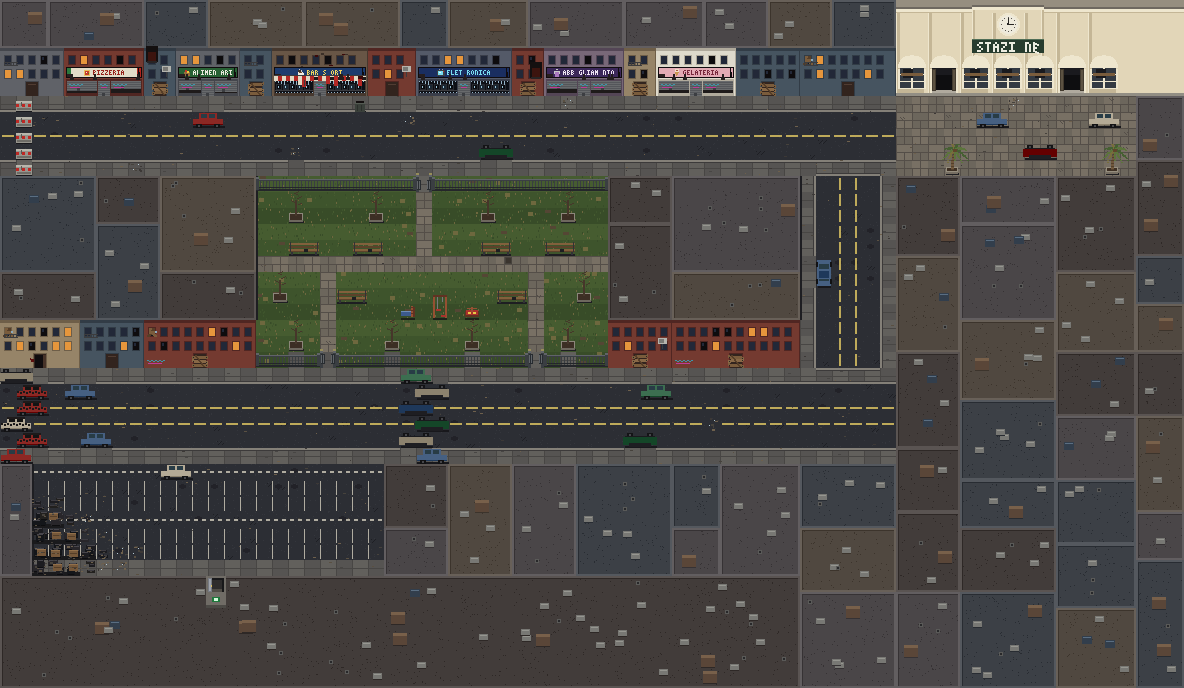
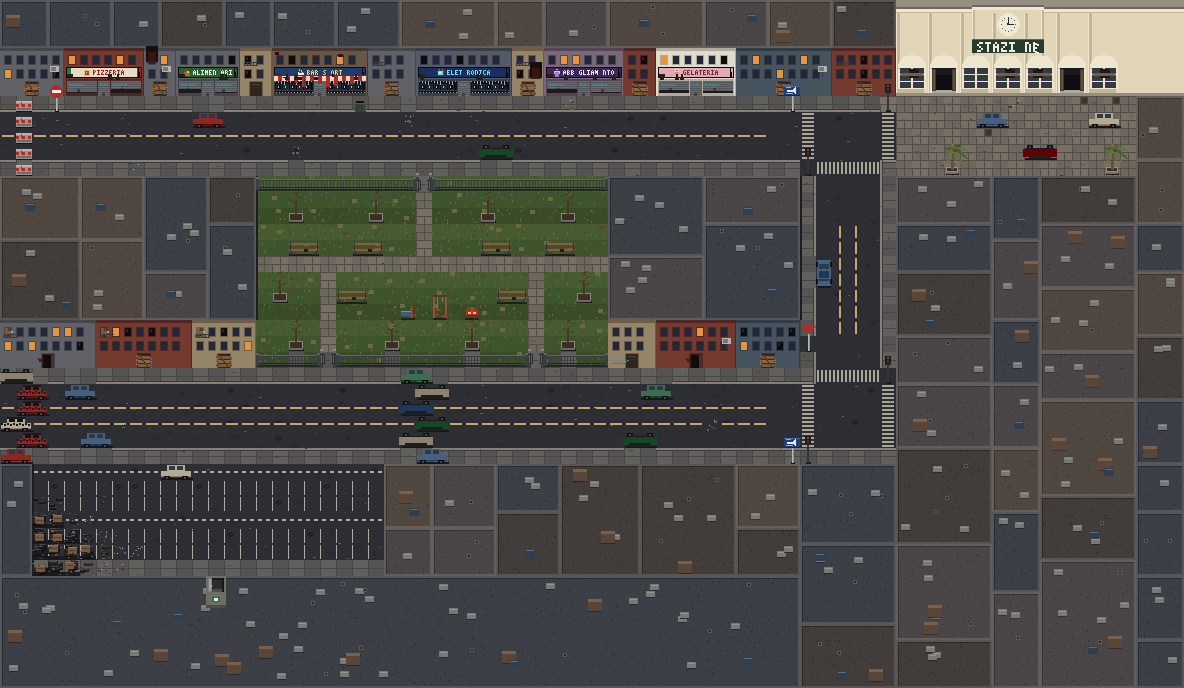
feat: incroci veri fra le due strade e la traversa
Gli incroci sono fatti come quello di first_street, che era gia giusto:
le linee di mezzeria si fermano prima dell'imbocco invece di attraversarlo,
due strisce pedonali `Z` tagliano la strada passante ai due lati
dell'imbocco, una `V` taglia l'imbocco stesso, e i semafori stanno su due
angoli opposti. Anche la traversa smette la propria mezzeria prima di
sboccare, nei due tratti di avvicinamento.

Aggiunta la segnaletica verticale, glifo `/`: un cartello su palo che si
sporge sulla cella sopra come fanno i semafori. Il tipo lo decide la
posizione -- dare precedenza sul marciapiede affiancato a una carreggiata
(la traversa che deve immettersi), divieto d'accesso dove i blocchi di
cemento chiudono la strada dei negozi, e altrove la targa blu che indica
la direzione.

diff --git a/lib/core/levels/tutorial/mall_north_street.dart b/lib/core/levels/tutorial/mall_north_street.dart
@@ -55,14 +55,14 @@ const List<String> mallNorthStreetRows = <String>[
[2 lines of base64/hex data omitted]
   'HHHHHHHHHHHHHHHHHHHHHHHHHHHHHHHHHHHHHHHHHHHHHHHHHHHHHHHH00((000000((000000',
-  '=J====================F============:====================PPPPPPP:PPPPPPPBBB',
-  '.J..........CC...........:..............................PPPPPCCPPPPPCCPBBB',
-  '-J------------------------------------------------------PPPPPPPPPPPPPPPBBB',
-  '.J................:...........UU........................PPPPPPPPUUPPPPPBBB',
-  '=J======:===============================================PPPNPPPPPPPPPNPBBB',
-  'BBBBBBBBBBBBBBBB^^^^^^^^^^<^^^^^^^^^^^BBBBBBBBBBBB=.||.=BBBBBBBBBBBBBBBBBB',
-  'BBBBBBBBBBBBBBBBggggggggggPgggggggggggBBBBBBBBBBBB=.||.=BBBBBBBBBBBBBBBBBB',
-  'BBBBBBBBBBBBBBBBggAggggAggPgggAggggAggBBBBBBBBBBBB=.||.=BBBBBBBBBBBBBBBBBB',
+  '=J=/==================F============:=============/=====TPPPPPPP:PPPPPPPBBB',
+  '.J..........CC...........:........................Z....ZPPPPPCCPPPPPCCPBBB',
+  '-J----------------------------------------------..Z....ZPPPPPPPPPPPPPPPBBB',
+  '.J................:...........UU..................Z....ZPPPPPPPPUUPPPPPBBB',
+  '=J======:=========================================TVVVV=PPPNPPPPPPPPPNPBBB',
+  'BBBBBBBBBBBBBBBB^^^^^^^^^^<^^^^^^^^^^^BBBBBBBBBBBB=....=BBBBBBBBBBBBBBBBBB',
+  'BBBBBBBBBBBBBBBBggggggggggPgggggggggggBBBBBBBBBBBB=....=BBBBBBBBBBBBBBBBBB',
+  'BBBBBBBBBBBBBBBBggAggggAggPgggAggggAggBBBBBBBBBBBB=....=BBBBBBBBBBBBBBBBBB',
   'BBBBBBBBBBBBBBBBggggggggggPgggggggggggBBBBBBBBBBBB=.||.=BBBBBBBBBBBBBBBBBB',
   'BBBBBBBBBBBBBBBBggnnggnnggPgggnnggnnggBBBBBBBBBBBB=.||.=BBBBBBBBBBBBBBBBBB',
   'BBBBBBBBBBBBBBBBPPPPPPPPPPPPPPPPPPPPPPBBBBBBBBBBBB=v||.=BBBBBBBBBBBBBBBBBB',
@@ -70,14 +70,14 @@ const List<String> mallNorthStreetRows = <String>[
   'BBBBBBBBBBBBBBBBgAggPnnggggggggnnPggAgBBBBBBBBBBBB=.||.=BBBBBBBBBBBBBBBBBB',
   'BBBBBBBBBBBBBBBBggggPggggpgpgpgggPggggBBBBBBBBBBBB=.||.=BBBBBBBBBBBBBBBBBB',
   'HHHHHHHHHHHHHHHHggggPggggggggggggPggggHHHHHHHHHHHH=.||.=BBBBBBBBBBBBBBBBBB',
-  'HHHHHHHHHHHHHHHHggAgPgggAggggAgggPgAggHHHHHHHHHHHH=.||.=BBBBBBBBBBBBBBBBBB',
-  'HHHHHHHHHHHHHHHH^^^^<^^^^^^^^^^^^<^^^^HHHHHHHHHHHH=.||.=BBBBBBBBBBBBBBBBBB',
-  'UU=======================CC=============================BBBBBBBBBBBBBBBBBB',
-  '.XX.CC....................UU............CC..............BBBBBBBBBBBBBBBBBB',
-  '-XX----------------------UU-----------------------------BBBBBBBBBBBBBBBBBB',
-  'XX------------------------UU----------------:-----------BBBBBBBBBBBBBBBBBB',
-  '.XX..CC..................UU............UU...............BBBBBBBBBBBBBBBBBB',
-  'CC========================CC============================BBBBBBBBBBBBBBBBBB',
+  'HHHHHHHHHHHHHHHHggAgPgggAggggAgggPgAggHHHHHHHHHHHH/....=BBBBBBBBBBBBBBBBBB',
+  'HHHHHHHHHHHHHHHH^^^^<^^^^^^^^^^^^<^^^^HHHHHHHHHHHH=....=BBBBBBBBBBBBBBBBBB',
+  'UU=======================CC========================VVVVTBBBBBBBBBBBBBBBBBB',
+  '.XX.CC....................UU............CC........Z....ZBBBBBBBBBBBBBBBBBB',
+  '-XX----------------------UU---------------------..Z....ZBBBBBBBBBBBBBBBBBB',
+  'XX------------------------UU----------------:---..Z....ZBBBBBBBBBBBBBBBBBB',
+  '.XX..CC..................UU............UU.........Z....ZBBBBBBBBBBBBBBBBBB',
[1 lines of base64/hex data omitted]
   'BBLLLLLLLLCCLLLLLLLLLLLLBBBBBBBBBBBBBBBBBBBBBBBBBBBBBBBBBBBBBBBBBBBBBBBBBB',
   'BBLLLLLLLLLLLLLLLLLLLLLLBBBBBBBBBBBBBBBBBBBBBBBBBBBBBBBBBBBBBBBBBBBBBBBBBB',
   'BB::LLLLLLLLLLLLLLLLLLLLBBBBBBBBBBBBBBBBBBBBBBBBBBBBBBBBBBBBBBBBBBBBBBBBBB',

diff --git a/lib/core/levels/tutorial/street.dart b/lib/core/levels/tutorial/street.dart
@@ -15,7 +15,7 @@
 /// - `CC` car, `XX` burning car, `UU` overturned car (horizontal pairs),
 ///   `v`/`k` car / burning car parked north-south (vertical pairs), `D` pile
 ///   of corpses, `F` burning bin, `T` traffic light: obstacles you can see
-///   and shoot over.
+///   and shoot over. `/` a road sign on its post.
 /// - `:` debris (walkable but noisy), `d` a lone corpse (walkable).
 /// - `S` a camp with a campfire: rest there to save (an obstacle).
 /// - `I` flagpole on the barracks forecourt (the flag is animated in game).

diff --git a/lib/core/levels/tutorial/tutorial_level.dart b/lib/core/levels/tutorial/tutorial_level.dart
@@ -31,7 +31,7 @@ export 'package:stepbound/core/levels/tutorial/street.dart';
 /// (mall.dart).
 const Legend outdoorLegend = Legend(
   walls: 'BHfKMGW#%0',
-  obstacles: 'CXUvkDFTSOyJQaAnI~RNbpx*i&!^;',
+  obstacles: 'CXUvkDFTSOyJQaAnI~RNbpx*i&!^;/',
   debris: ':q',
 );
 const Legend barracksLegend = Legend(walls: 'xWQNSIw', obstacles: 'TCAh');

diff --git a/tools/build_street_level.py b/tools/build_street_level.py
@@ -2081,6 +2081,35 @@ def paint_bin(d, px, py):
     rect(d, px + 4, py + 5, 8, 2, SCORCH)
 
 
+def paint_sign(d, px, py, kind):
+    """A road sign on its post, `/`: give way at the mouth of a side
+    street, no entry where a street is closed, or the blue plate that
+    points the way. Like the traffic lights it stands into the tile above,
+    so it reads at eye level rather than flat on the pavement."""
+    white, red, blue = (236, 234, 228), (186, 40, 36), (36, 62, 118)
+    rect(d, px + 7, py + 14, 4, 2, (24, 24, 28))  # its shadow
+    rect(d, px + 8, py - 2, 2, 17, (146, 144, 138))  # the post
+    rect(d, px + 8, py - 2, 1, 17, (184, 182, 176))
+    if kind == 0:  # give way: a triangle on its point
+        for i in range(7):
+            rect(d, px + 2 + i, py - 10 + i, 14 - i * 2, 1, red)
+            if 1 <= i < 5:
+                rect(d, px + 4 + i, py - 9 + i, 10 - i * 2, 1, white)
+    elif kind == 1:  # no entry
+        d.ellipse([px + 2, py - 11, px + 14, py + 1], fill=red)
+        d.ellipse([px + 4, py - 9, px + 12, py - 1], fill=red)
+        rect(d, px + 4, py - 6, 9, 3, white)
+    else:  # the way to the station
+        rect(d, px, py - 10, 16, 10, blue)
+        rect(d, px, py - 10, 16, 1, (76, 106, 166))
+        rect(d, px, py - 1, 16, 1, (22, 38, 74))
+        rect(d, px + 3, py - 6, 8, 2, white)  # the arrow, pointing on
+        for i in range(3):
+            rect(d, px + 9 + i, py - 7 - i, 1, 3 + i * 2, white)
+        rect(d, px + 2, py - 9, 5, 1, (150, 170, 210))
+        rect(d, px + 2, py - 3, 7, 1, (150, 170, 210))
+
+
 def paint_traffic_light(d, px, py):
     rect(d, px + 6, py + 14, 5, 2, (24, 24, 28))
     rect(d, px + 7, py - 6, 2, 21, (50, 52, 56))
@@ -2492,6 +2521,18 @@ def bake(level: Level, rng: random.Random, output: str) -> None:
         for x in range(level.width):
             if level.at(x, y) == "T":
                 paint_traffic_light(d, x * TILE, y * TILE)
+            elif level.at(x, y) == "/":
+                # Give way on the pavement running alongside a carriageway
+                # (a side street waiting to join), no entry where the road
+                # blocks close a street, the blue plate anywhere else.
+                if (level.at(x - 1, y) in ROAD_GLYPHS
+                        or level.at(x + 1, y) in ROAD_GLYPHS):
+                    kind = 0
+                elif any(level.at(x + dx, y) == "J" for dx in (-2, -1, 1, 2)):
+                    kind = 1
+                else:
+                    kind = 2
+                paint_sign(d, x * TILE, y * TILE, kind)
             elif level.at(x, y) == "A":
                 paint_tree(d, rng, x * TILE, y * TILE)
             elif level.at(x, y) == "N":
